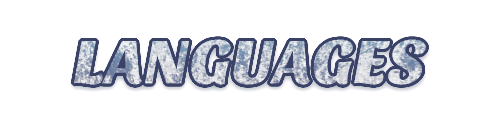
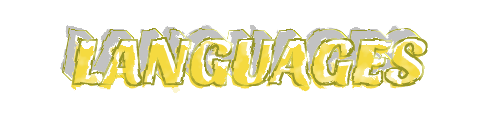
Added a moving leaf

diff --git a/portfolio/src/components/leaf/Leaf.js b/portfolio/src/components/leaf/Leaf.js
@@ -1,0 +1,79 @@
+import React, {Component} from 'react';
+import leaf from "../../assets/images/leaf.png";
+import { TweenMax } from "gsap/TweenMax";
+ import {TimelineMax} from "gsap/TimelineMax";
+ import {Power1} from "gsap/EasePack"
+import ScrollMagic from "ScrollMagic";
+import "scrollmagic/scrollmagic/uncompressed/plugins/animation.gsap";
+import "scrollmagic/scrollmagic/uncompressed/plugins/debug.addIndicators";
+import $ from "jquery";
+import "./Leaf.css";
+class Leaf extends Component{
+    state = {
+        
+        controller: new ScrollMagic.Controller()
+       
+      };
+    
+      componentDidMount() {
+        var flightpath = {
+			entry : {
+				curviness: 1.25,
+				autoRotate: true,
+				values: [
+						{x: 100,	y: -20},
+						{x: 300,	y: 10}
+					]
+			},
+			looping : {
+				curviness: 1.25,
+				autoRotate: true,
+				values: [
+						{x: 510,	y: 60},
+						{x: 620,	y: -60},
+						{x: 500,	y: -100},
+						{x: 380,	y: 20},
+						{x: 500,	y: 60},
+						{x: 580,	y: 20},
+						{x: 620,	y: 15}
+					]
+			},
+			leave : {
+				curviness: 1.25,
+				autoRotate: true,
+				values: [
+						{x: 660,	y: 20},
+						{x: 800,	y: 130},
+						{x: $(window).width() + 300,	y: -100},
+					]
+			}
+        };
+        
+        var tween = new TimelineMax()
+			.add(TweenMax.to($("#plane"), 1.2, {css:{bezier:flightpath.entry}, ease:Power1.easeInOut}))
+			.add(TweenMax.to($("#plane"), 2, {css:{bezier:flightpath.looping}, ease:Power1.easeInOut}))
+			.add(TweenMax.to($("#plane"), 1, {css:{bezier:flightpath.leave}, ease:Power1.easeInOut}));
+       
+            new ScrollMagic.Scene({triggerElement: "#trigger", duration: 500, offset: 1700})
+						.setPin("#target")
+						.setTween(tween)
+						.addIndicators() // add indicators (requires plugin)
+						.addTo(this.state.controller);
+      
+
+      }
+    render(){
+        return(
+<div>
+<div class="spacer s2"></div>
+<div class="spacer s0" id="trigger"></div>
+<div id="target">
+	<img id="plane" src={leaf} alt="leaf" />
+	
+</div>
+<div class="spacer s2"></div>
+</div>
+        )
+        }
+}
+export default Leaf;

diff --git a/portfolio/src/components/structure/Structure.js b/portfolio/src/components/structure/Structure.js
@@ -1,7 +1,9 @@
 import React, { Component } from "react";
 import "./Structure.css";
 import $ from "jquery";
-
+import languages from "../../assets/images/LANGUAGES.png";
+import tree from "../../assets/images/tree.png";
+import Leaf from "../leaf/Leaf";
 class Structure extends Component {
   
   componentDidMount() {
@@ -32,7 +34,9 @@ class Structure extends Component {
       <div>
         <div class="hori-scroll" id="dummy">
           <div class="in-scroll" >
-           <p>Start</p>
+           <img src={languages} alt="languages logo"  style={{marginLeft:"50px"}}/>
+           {/* <img src={tree} alt="tree" className="tree"/> */}
+           <Leaf />
             </div>
         </div>
       </div>

diff --git a/portfolio/src/components/motion/Motion.js b/portfolio/src/components/motion/Motion.js
@@ -41,11 +41,11 @@ class Motion extends Component {
       .setPin("#myimg")
       .setClassToggle("#imagesequence", "visible") // add class to reveal
       .setTween(tween)
-      .addIndicators({
-        name: "scene",
-        colorTrigger: "black",
-        colorStart: "black"
-      }) // add indicators (requires plugin)
+      // .addIndicators({
+      //   name: "scene",
+      //   colorTrigger: "black",
+      //   colorStart: "black"
+      // }) // add indicators (requires plugin)
       .addTo(this.state.controller);
   }
   render() {

diff --git a/portfolio/src/components/standGirl/StandGirl.js b/portfolio/src/components/standGirl/StandGirl.js
@@ -17,7 +17,7 @@ class standGirl extends Component {
     new ScrollMagic.Scene({ triggerElement: "#trigger", offset:470 })
       // trigger a velocity opaticy animation
       .setVelocity("#animate", { opacity: 0 }, { duration: 400 })
-      .addIndicators({name:"standGirl"}) // add indicators (requires plugin)
+      // .addIndicators({name:"standGirl"}) // add indicators (requires plugin)
       .addTo(this.state.controller);
   }
   render() {

diff --git a/portfolio/src/components/structure/Structure.css b/portfolio/src/components/structure/Structure.css
@@ -24,3 +24,10 @@
    
     font-size: 50px;
 }
+
+.tree{
+	position: absolute;
+	top:470px;
+	left:1000px;
+	width:250px;
+}

diff --git a/portfolio/src/components/leaf/Leaf.css b/portfolio/src/components/leaf/Leaf.css
@@ -1,0 +1,5 @@
+#plane{
+    width:50px;
+    position:relative;
+    top:-650px;
+}
